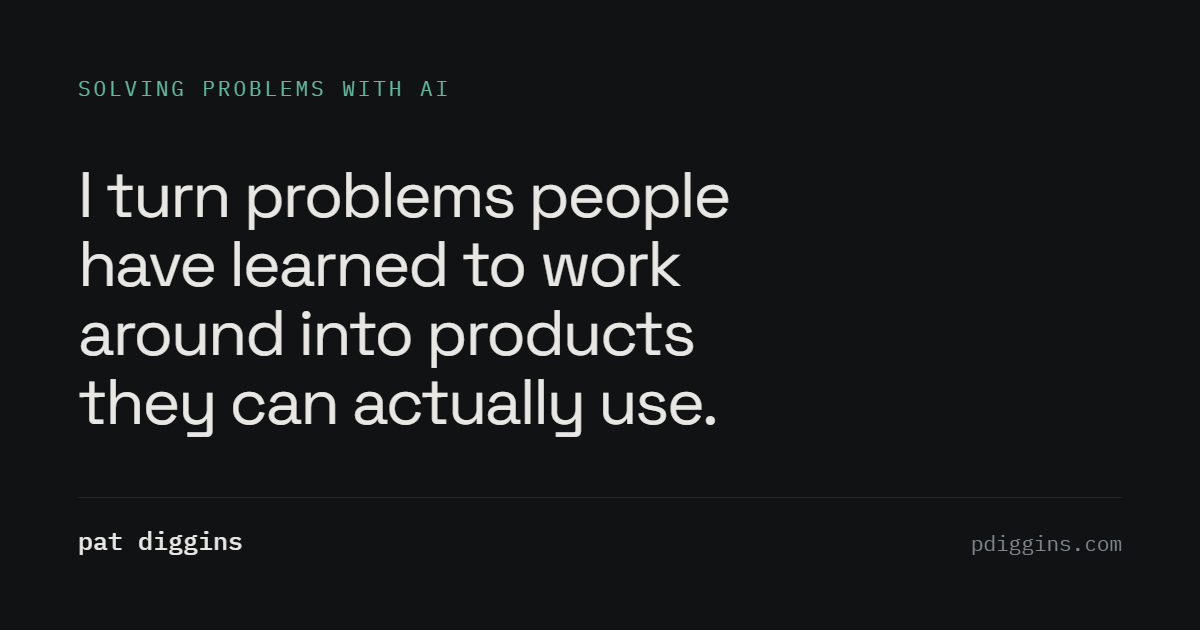
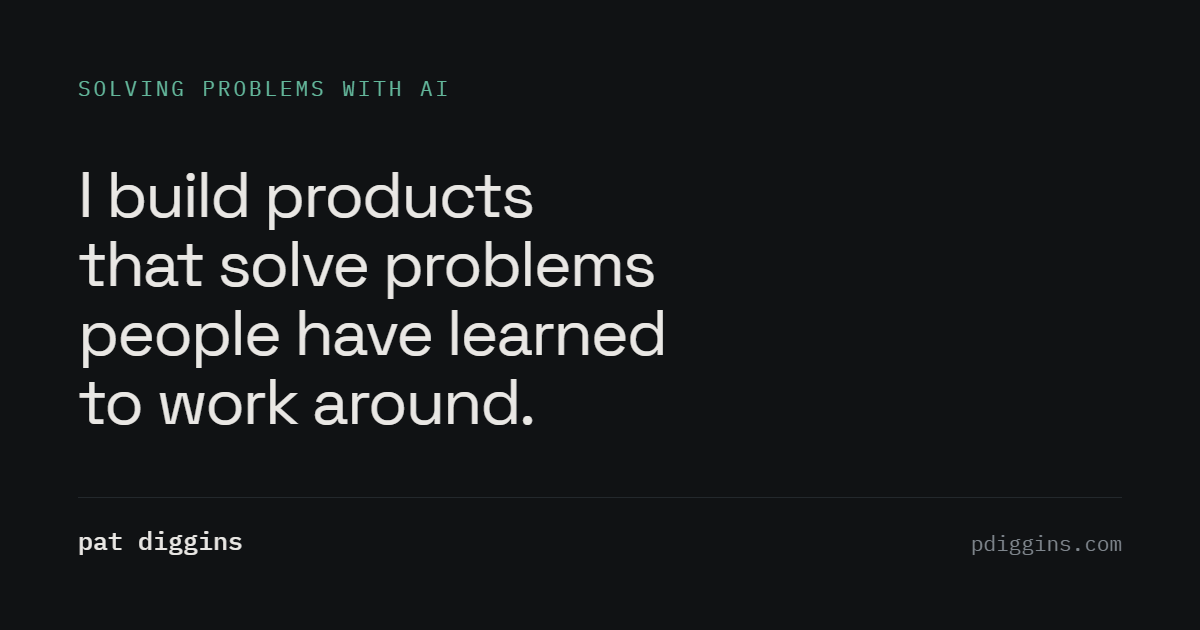
Reword the hero claim to lead with what I build (#60)
* Reword the hero claim to lead with what I build

Owner-supplied copy. The sentence lives in three places, and all three move:

- index.html h1, the authoritative claim.
- `description` in _config.yml, which embedded it verbatim behind a "Senior PM."
  prefix. One string, feeding <meta name="description">, og:description and the
  JSON-LD description on the home page and on 404.
- assets/og/default.png, which sets the headline as type. Left alone, every
  shared link would have previewed the old claim beside the new description.

Comparing this card against the previous blob shows differences on rows 172-436
and nowhere else, at the same 1200x630 and the same RGBA: the eyebrow, rule,
wordmark and URL are identical pixel for pixel. The new copy is set as four
lines like the old one, which leaves the rule and footer where they are and
keeps og_image.alt in _config.yml ("a large four-line headline") true of the
real file.

The comment above the intro section claimed the hero claim was display copy and
not metadata. That was already untrue at main, and it now records the coupling.

git grep finds no remaining instance of the old sentence in tracked source.
checks.py and matrix.py pass; specificity_sweep is unchanged at 14 pairs.

* Remeasure the hero metrics the new copy invalidated

The size-adjust value is derived from the two faces' average advances and does
not depend on the copy. The numbers quoted BESIDE it do: they check one real
[…]

diff --git a/assets/css/style.scss b/assets/css/style.scss
@@ -146,17 +146,24 @@
    metrics against Arial: normalised average lowercase advance 0.54456 against
    0.48170 gives 113.05%, and the ascent, descent and line gap are Space
    Grotesk's own (984/-292/0 per 1000 upm) divided back through that scale.
-   Re-derive them if either font is ever replaced. Checked on the real hero
-   string at 47px: 2018.1px against 2061.6px, a 2.15% difference, so wrap
-   points hold.
+   Re-derive them if either font is ever replaced. Checked on the current hero
+   string at 47px: 1556.3px real against 1611.5px adjusted, a 3.55% difference.
+   Close, but NOT close enough to hold the wrap at every width. At the 1280 cap
+   of 813px the real face takes two lines and the fallback takes three, so this
+   headline DOES reflow by one line if the fallback paints first; at the 960 cap
+   both take three. The preload in _layouts/default.html is what keeps that
+   window short. Re-measure whenever the hero copy changes: the margin is a
+   property of the particular string, not of the two fonts, and the previous
+   copy held at both widths where this one does not.
 
    WIDTH is matched, not x-height, and the trade is real in both directions.
    Matching x-height instead would put size-adjust at 94.30%, which sets 16.6%
-   narrow per character. On the hero string that comes out as 1719.7px against
-   2018.1px -- a 14.79% shortfall rather than 16.6%, because the two numbers
-   measure different things: the first is the average advance ratio, the second
-   is this particular string. Either way it is a reflow of whole lines, against
-   the 2.15% the shipped values give. The price of matching width is that
+   narrow per character. On the current hero string that comes out as 1327.4px
+   against 1556.3px -- a 14.70% shortfall rather than 16.6%, because the two
+   numbers measure different things: the first is the average advance ratio, the
+   second is this particular string. That is a reflow of whole lines at every
+   width, against the one width where the shipped values lose a line. The price
+   of matching width is that
    the fallback's x-height runs 19.9% large, so the swap is visible as a change
    of weight and size. That is the right way round: a heavier first paint is a
    flicker, a reflow moves the text the reader is already reading.
@@ -1506,8 +1513,9 @@ a:hover { color: var(--text); }
   /* Leading is raised HERE and nowhere else. The global 1.09 is display
      leading, tuned for the one or two lines this headline occupies at 47px,
      where each line is long relative to its height. At 29px in a ~350px column
-     the same copy wraps to FIVE lines -- measured, not estimated -- which is a
-     paragraph, and paragraph-length text at display leading reads dense.
+     the same copy wraps to THREE lines, and to four at 320 -- measured, not
+     estimated -- which reads as a block of text rather than a display line, and
+     text at display leading reads dense.
 
      Deliberately NOT applied to .story-title. Every story title measures one or
      two lines at both 390 and 1280, which is the case 1.10 is already tuned

diff --git a/index.html b/index.html
@@ -15,9 +15,12 @@ own title prefixed.
 {%- endcomment -%}
 
 {%- comment -%}
-The headline claim is display copy, not metadata, so it lives here rather than
-in _config.yml. site.title and site.tagline stay in config for the seo tag but
-are deliberately not printed on the page.
+The h1 below is the authoritative hero claim and lives here as page markup. It
+is NOT the only copy of that sentence: `description` in _config.yml carries a
+prefixed version as metadata, and assets/og/default.png sets it as type in the
+share card. Rewording it here means moving all three, or the page's own search
+snippet and link preview contradict the page. site.title and site.tagline stay
+in config for the seo tag and are deliberately not printed on the page.
 
 This MUST be a Liquid comment, not an HTML one. Liquid executes tags inside
 HTML comments: naming the seo tag in a `<!-- -->` block expanded it, and its
@@ -29,13 +32,13 @@ The ONE section on this page with no aria-labelledby, deliberately. The only
 heading inside it is the page h1, which names the WHOLE PAGE rather than a
 region within it, and the nav does not anchor here. Left unnamed this stays a
 generic box inside <main>, which is correct: pointing at the h1 would put a
-landmark named "I turn problems people have learned to work around..." in the
+landmark named "I build products that solve problems people have..." in the
 landmark list, and that heading is already reachable by heading navigation.
 The five anchored sections below are the named regions; see the note on #work.
 {%- endcomment -%}
 <section class="intro">
   <p class="eyebrow">solving problems with ai</p>
-  <h1>I turn problems people have learned to work around into products they can actually use.</h1>
+  <h1>I build products that solve problems people have learned to work around.</h1>
   {%- comment -%}
   Four facts and three separators, each its own element. The separators are
   marked up rather than generated for the same reason as .site-crumb-sep:
